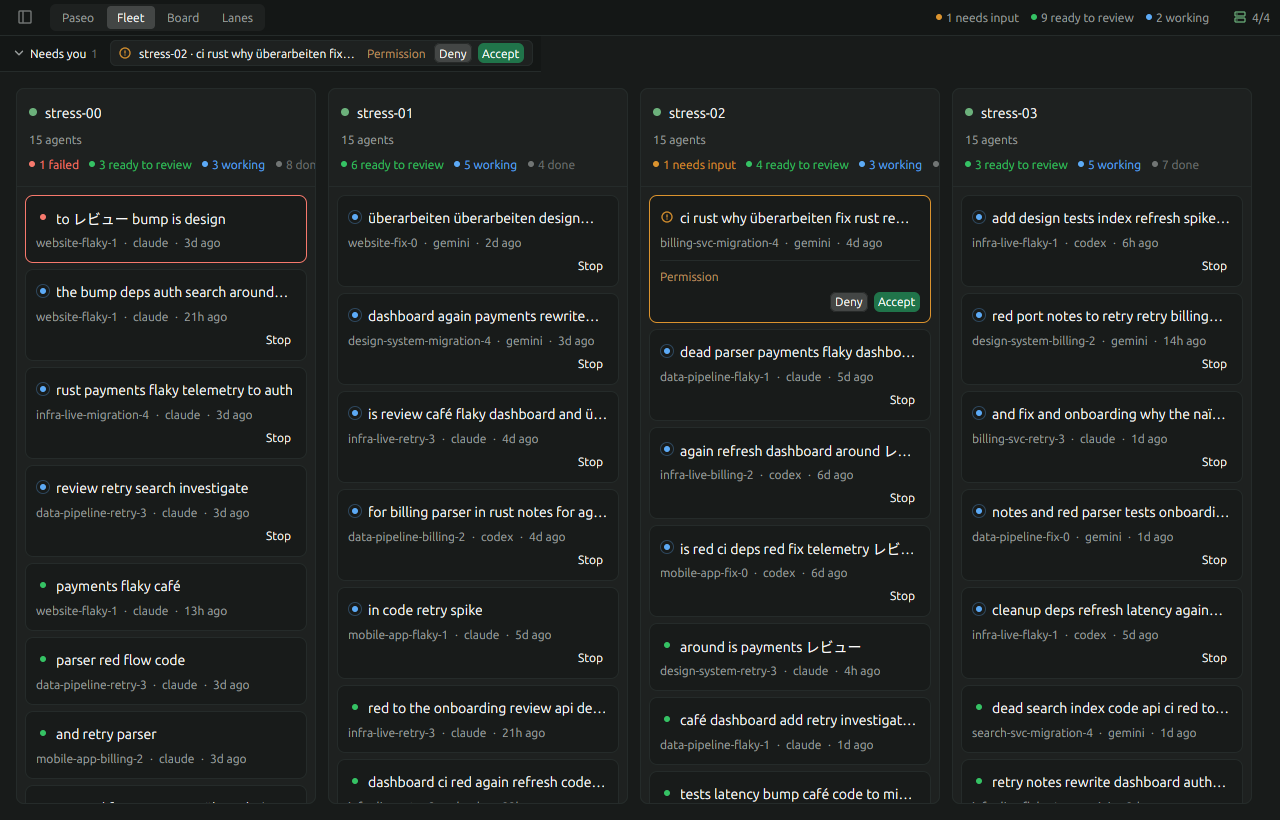
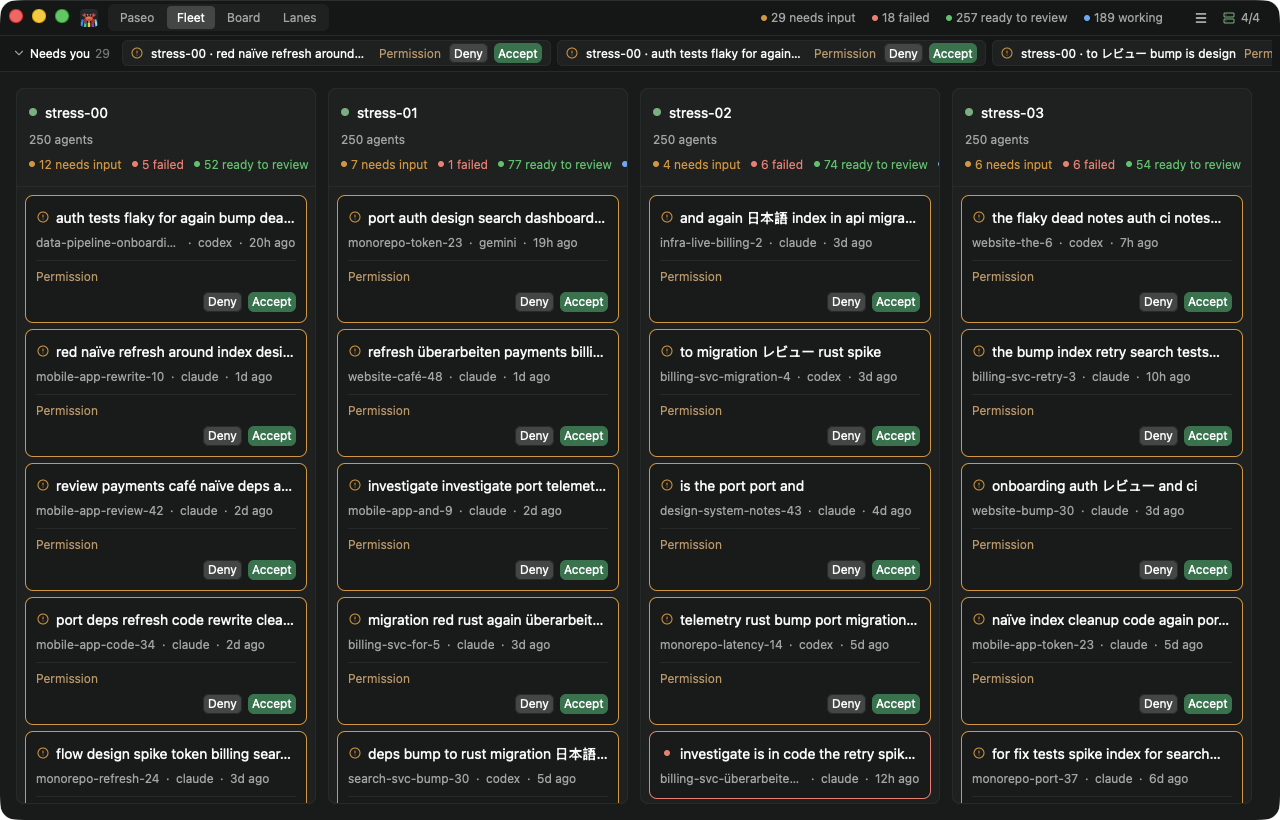
README: features and screenshots for alpha.3

diff --git a/README.md b/README.md
@@ -21,8 +21,9 @@ the same data (Lanes, Fleet, Board) for keeping an eye on lots of agents across 
 | ![Paseo layout](docs/screenshots/paseo.png) | The **Paseo** layout: sidebar, workspace tabs, live conversation and composer. |
 | ![Lanes layout](docs/screenshots/lanes.png) | **Lanes**: workspaces as cards in lanes, grouped by label, project, host or workspace. |
 | ![Fleet layout](docs/screenshots/fleet.png) | **Fleet**: one column per host, most urgent agents first. |
+| ![Lanes with a window border](docs/screenshots/border.png) | An optional **window border** (Settings → Window), any width from 1 to 8 px and any color. |
 
-Lanes and Fleet show the synthetic `CRUSTEO_STRESS` fleet.
+All four show the synthetic `CRUSTEO_STRESS` fleet.
 
 ## Features
 
@@ -33,6 +34,7 @@ Lanes and Fleet show the synthetic `CRUSTEO_STRESS` fleet.
   Switching views never reconnects or loses your place.
 - **Live conversations.** Streamed assistant text, tool-call rows with Paseo's names, summaries,
   icons and expandable details, task lists from TodoWrite, and gap-free catch-up after reconnects.
+  Right-click selected text to copy it as shown, or as the Markdown the agent wrote.
 - **Permissions.** Allow or deny tool calls and approve or reject plans inline, or straight from
   Fleet and Lanes cards.
 - **Composer.** Send, **steer** a running turn (Enter), **queue** a message for when the turn ends
@@ -43,8 +45,13 @@ Lanes and Fleet show the synthetic `CRUSTEO_STRESS` fleet.
 - **Prompt scroll index.** Ticks along the conversation's edge mark each of your prompts; hover to
   preview, click to jump, loading older history as needed.
 - **Built-in terminals.** Open a terminal on the daemon's host next to your agents.
-- **Layouts.** Paseo, Lanes, Fleet and Board, all reading the same shared state.
+- **Layouts.** Paseo, Lanes, Fleet and Board, all reading the same shared state. Lanes can be
+  filtered, searched (Ctrl/Cmd+F), dragged, collapsed into tabs, and resized, open cards included.
+- **Usage gauges.** One pace dial per subscription account in the title bar, from the daemons' own
+  usage reports (Paseo 0.11 names each account), or from an extension's source.
 - **Command palette** (Ctrl/Cmd+K) over workspaces, agents and actions across every host.
+- **Yours to arrange.** Every toolbar can be rearranged, and Lua scripts add items of their own. An
+  optional window border (Settings → Window) sets crusteo apart from the windows beside it.
 
 ## Install
 
@@ -176,8 +183,9 @@ extension with no settings stays off and makes no requests.
 | Ctrl/Cmd+Enter | While the agent works, queue the message; it sends when the turn ends |
 | Escape | Interrupt the running turn |
 
-On macOS the menu bar also has Cmd+Q, Cmd+H, Cmd+Option+H and Cmd+M, and **Crusteo → About Crusteo**
-shows the version, the Paseo protocol and each host's daemon version.
+The title bar's menu (≡) has Settings, Keyboard shortcuts, Customize toolbars and **About**, which
+shows the version, the Paseo protocol and each host's daemon version. On macOS the menu bar also has
+About, Cmd+Q, Cmd+H, Cmd+Option+H and Cmd+M.
 
 In a terminal, copy and paste are Ctrl+Shift+C / Ctrl+Shift+V on Linux and Windows, Cmd+C / Cmd+V
 on macOS.
